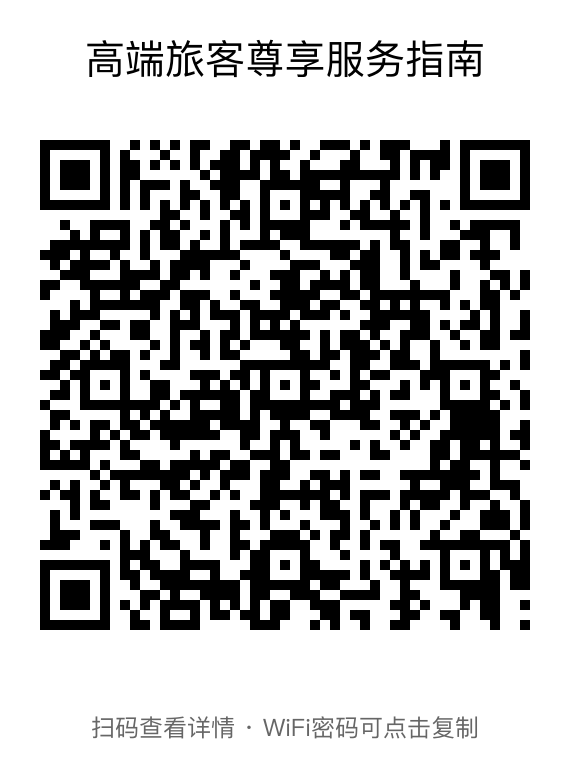
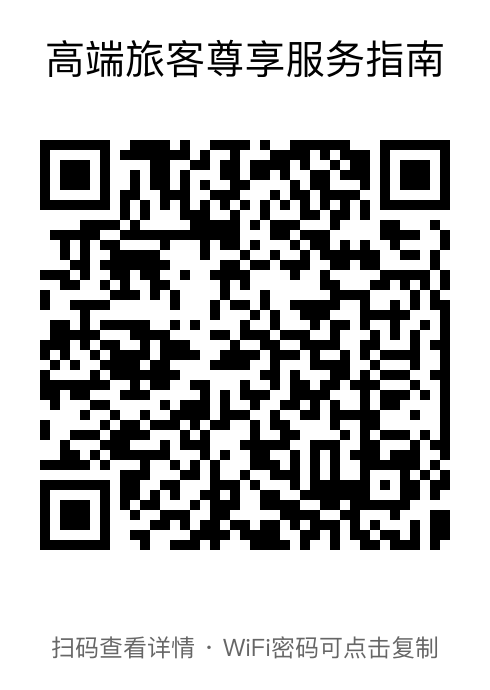
更新：使用Netlify部署，重新生成二维码

diff --git a/generate_qrcode.py b/generate_qrcode.py
@@ -14,13 +14,8 @@ def generate_qrcode():
     # 获取当前文件所在目录
     current_dir = os.path.dirname(os.path.abspath(__file__))
     
-    # HTML文件的URL（需要部署到服务器后替换为实际URL）
-    # 这里先使用本地文件路径作为示例
-    html_file = os.path.join(current_dir, 'wifi-info.html')
-    
-    # 如果您有服务器，请替换为实际的URL
-    # url = "https://your-domain.com/wifi-info.html"
-    url = f"file://{html_file}"
+    # Netlify URL
+    url = "https://superb-beignet-71d65e.netlify.app/wifi-info.html"
     
     print(f"生成二维码，链接到: {url}")
     

diff --git a/备用方案_使用Netlify.md b/备用方案_使用Netlify.md
@@ -1,0 +1,126 @@
+# 备用方案：使用 Netlify（2分钟部署）
+
+如果GitHub Pages设置比较麻烦，可以使用Netlify，更简单快速！
+
+## 🚀 方法一：Netlify Drop（最快，无需注册）
+
+### 步骤：
+
+1. **访问Netlify Drop**
+   ```
+   https://app.netlify.com/drop
+   ```
+
+2. **拖拽文件**
+   - 直接拖拽 `wifi-info.html` 文件到页面
+   - 等待上传（几秒钟）
+
+3. **获取URL**
+   - 自动生成类似：`https://xxx-xxx-xxx.netlify.app/wifi-info.html`
+   - 复制这个URL
+
+4. **重新生成二维码**
+   ```bash
+   # 编辑 generate_qrcode.py
+   # 将 url 改为 Netlify 的URL
+   # 然后运行：
+   python3 generate_qrcode.py
+   ```
+
+5. **完成！**
+   - 立即可以扫码使用
+   - 无需等待
+
+## 🌐 方法二：使用 GitHub Gist（永久有效）
+
+### 步骤：
+
+1. **访问GitHub Gist**
+   ```
+   https://gist.github.com
+   ```
+
+2. **创建新Gist**
+   - 点击右上角 "+" → "New gist"
+   - Filename: `wifi-info.html`
+   - 粘贴 `wifi-info.html` 的全部内容
+   - 选择 "Create public gist"
+
+3. **获取Raw链接**
+   - 点击右上角的 "Raw" 按钮
+   - 复制浏览器地址栏的URL
+   - 类似：`https://gist.githubusercontent.com/siven97/xxx/raw/xxx/wifi-info.html`
+
+4. **重新生成二维码**
+   - 使用这个Raw URL
+   - 运行 `python3 generate_qrcode.py`
+
+## 📊 方案对比
+
+| 方案 | 速度 | 难度 | 稳定性 | 推荐度 |
+|------|------|------|--------|--------|
+| Netlify Drop | ⭐⭐⭐⭐⭐ | ⭐☆☆☆☆ | ⭐⭐⭐⭐☆ | ⭐⭐⭐⭐⭐ |
+| GitHub Gist | ⭐⭐⭐⭐☆ | ⭐⭐☆☆☆ | ⭐⭐⭐⭐⭐ | ⭐⭐⭐⭐☆ |
+| GitHub Pages | ⭐⭐⭐☆☆ | ⭐⭐⭐☆☆ | ⭐⭐⭐⭐⭐ | ⭐⭐⭐☆☆ |
+
+## 🎯 推荐方案
+
+**如果想要最快**：使用 **Netlify Drop**
+- 2分钟完成
+- 拖拽即可
+- 立即生效
+
+**如果想要最稳定**：使用 **GitHub Gist**
+- 永久有效
+- 简单可靠
+- 5分钟完成
+
+## 💡 Netlify Drop 详细步骤
+
+1. 打开浏览器，访问：https://app.netlify.com/drop
+
+2. 看到页面中间有个大框，写着 "Drag & drop your site folder here"
+
+3. 从文件夹中拖拽 `wifi-info.html` 到这个框里
+
+4. 等待几秒钟，会显示：
+   ```
+   Your site is live!
+   https://xxx-xxx-xxx.netlify.app
+   ```
+
+5. 完整URL是：
+   ```
+   https://xxx-xxx-xxx.netlify.app/wifi-info.html
+   ```
+
+6. 复制这个URL，修改 `generate_qrcode.py`：
+   ```python
+   url = "https://xxx-xxx-xxx.netlify.app/wifi-info.html"
+   ```
+
+7. 运行：
+   ```bash
+   python3 generate_qrcode.py
+   ```
+
+8. 完成！扫码测试
+
+## ✅ 优势
+
+- **无需注册**：Netlify Drop不需要账号
+- **即时生效**：上传后立即可用
+- **免费使用**：完全免费
+- **稳定可靠**：Netlify是专业的托管服务
+
+## 🔄 如果需要更新
+
+Netlify Drop的缺点是每次更新需要重新上传，会生成新的URL。
+
+如果需要经常更新，建议：
+1. 注册Netlify账号
+2. 或使用GitHub Pages（一次设置，永久使用）
+
+---
+
+**推荐**: 先用Netlify Drop快速测试，确认功能正常后，再考虑使用GitHub Pages作为长期方案。

diff --git a/启用GitHub_Pages步骤.md b/启用GitHub_Pages步骤.md
@@ -1,0 +1,117 @@
+# 启用 GitHub Pages 详细步骤
+
+## 🚨 当前状态：404错误
+
+这是因为GitHub Pages还没有启用。请按照以下步骤操作：
+
+## 📝 启用步骤（5分钟）
+
+### 步骤1：访问仓库设置
+
+1. 打开浏览器，访问：
+   ```
+   https://github.com/siven97/-
+   ```
+
+2. 点击仓库顶部的 **Settings**（设置）标签
+
+### 步骤2：找到Pages设置
+
+1. 在左侧菜单中，向下滚动找到 **Pages**
+2. 点击 **Pages**
+
+### 步骤3：配置Pages
+
+1. 在 **Source** 部分：
+   - Branch: 选择 **main**
+   - Folder: 选择 **/ (root)**
+   
+2. 点击 **Save** 按钮
+
+### 步骤4：等待部署
+
+1. 页面会显示：
+   ```
+   Your site is ready to be published at https://siven97.github.io/-/
+   ```
+
+2. 等待 1-2 分钟，刷新页面
+
+3. 当显示变为：
+   ```
+   Your site is live at https://siven97.github.io/-/
+   ```
+   就说明部署成功了！
+
+### 步骤5：测试访问
+
+在浏览器中访问：
+```
+https://siven97.github.io/-/wifi-info.html
+```
+
+如果能看到页面，说明成功了！
+
+## ✅ 成功后的操作
+
+1. **测试二维码**
+   - 用微信扫描 `wifi_qrcode.png`
+   - 应该能看到WiFi信息页面
+   - 点击密码测试复制功能
+
+2. **如果还是404**
+   - 等待5-10分钟（首次部署可能需要更长时间）
+   - 清除浏览器缓存
+   - 或使用无痕模式访问
+
+## 🔧 常见问题
+
+### Q1: 找不到Pages选项？
+**A**: 确保：
+- 仓库是Public（公开）的
+- 您是仓库的所有者
+- 刷新页面重试
+
+### Q2: 显示"GitHub Pages is currently disabled"？
+**A**: 
+- 检查仓库是否为Private（私有）
+- 如果是Private，需要升级到GitHub Pro才能使用Pages
+- 或将仓库改为Public
+
+### Q3: 部署后还是404？
+**A**:
+- 等待更长时间（最多10分钟）
+- 检查URL是否正确
+- 确认文件名是 `wifi-info.html`（区分大小写）
+
+## 📱 快速验证方法
+
+### 方法1：浏览器测试
+```
+https://siven97.github.io/-/wifi-info.html
+```
+
+### 方法2：检查部署状态
+1. 访问仓库主页
+2. 点击右侧的 **Environments**
+3. 查看 **github-pages** 的部署状态
+
+## 🎯 完成后
+
+一旦GitHub Pages启用成功：
+- ✅ 二维码可以正常扫描
+- ✅ 页面可以正常访问
+- ✅ WiFi密码可以点击复制
+- ✅ 所有功能都能正常使用
+
+## 📞 需要帮助？
+
+如果按照步骤操作后仍然有问题：
+1. 截图Settings -> Pages页面
+2. 告诉我具体的错误信息
+3. 我会帮您解决
+
+---
+
+**预计完成时间**: 5-10分钟
+**难度**: ⭐⭐☆☆☆（简单）
